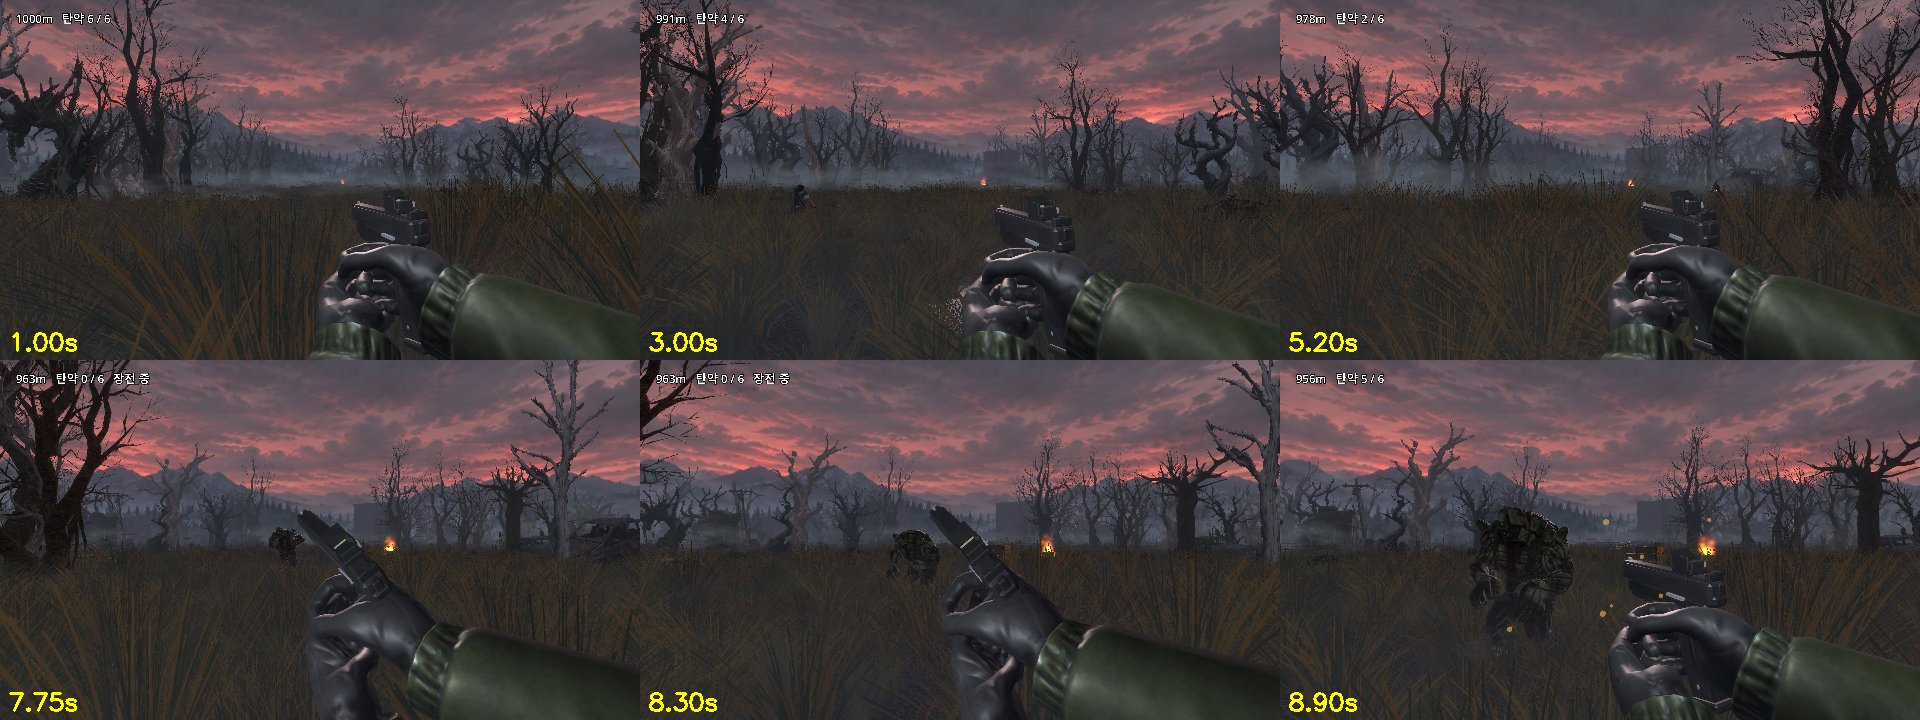
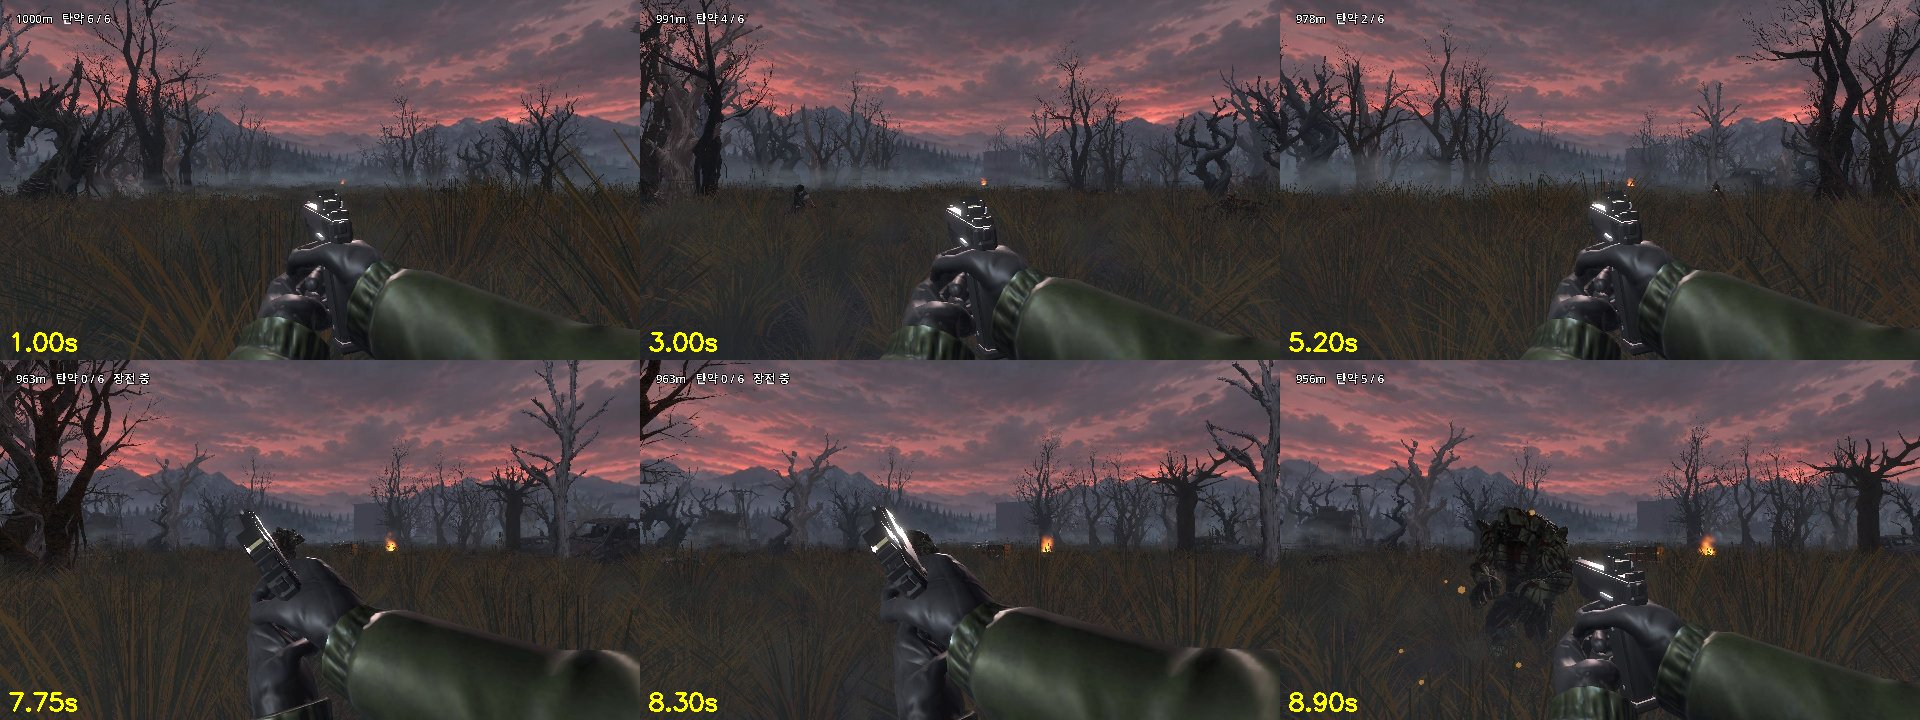
feat: 사용자가 조정 화면에서 맞춘 권총 위치를 굳힘 — 엄지 쪽 23 mm, 화면 가운데 쪽으로 — WU-29
- 조정 화면 저장값: gun_pos=-0.023,0,0 / vm_pos=0.025,-0.12,-0.38
- make_pistol.py --gun-nudge 기본값으로 굳힘, 1인칭 REST_POS 를 0.025 로 (조정 화면 시작값도 같게)
- validate 통과

diff --git a/art/blender/make_pistol.py b/art/blender/make_pistol.py
@@ -47,7 +47,7 @@ def parse_args():
                                      "RightHandMiddle1=-10,0,0;RightHandRing1=-10,0,0;RightHandPinky1=-10,0,0",
                    # 검지·엄지는 총 쪽으로 감되 손잡이 속으로 파고들지 않게, 나머지 세 손가락은 살짝 펴 손잡이 표면에 닿게
                    help="손가락 관절을 더 구부리는 각도. '뼈이름=x,y,z;...' (도). 예: RightHandIndex1=0,0,-20")
-    p.add_argument("--gun-nudge", default="0,0,0,0,0,0",
+    p.add_argument("--gun-nudge", default="-0.023,0,0,0,0,0",   # 2026-09-30 사용자가 조정 화면에서 맞춘 값 (엄지 쪽으로 23 mm)
                    help="조정 화면(grip_tuner)에서 찾은 값: 총을 손에 대해 옮긴 거리(m)·각도(도), Godot 기준 x,y,z,위아래,좌우,기울임")
     p.add_argument("--max-texture", type=int, default=1024)
     p.add_argument("--sleeve", default="0.30,0.32,0.22",
